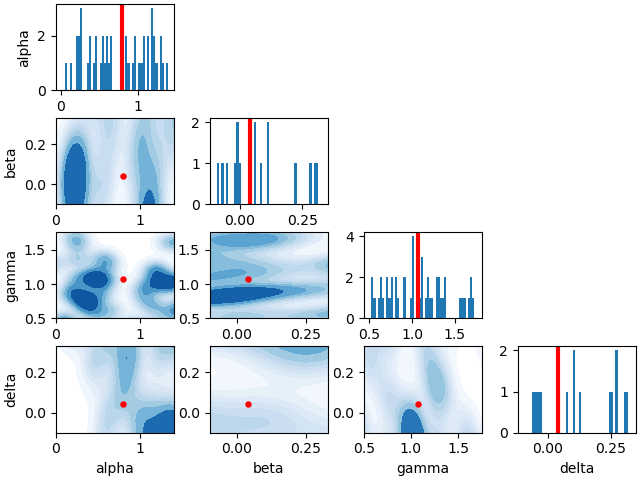
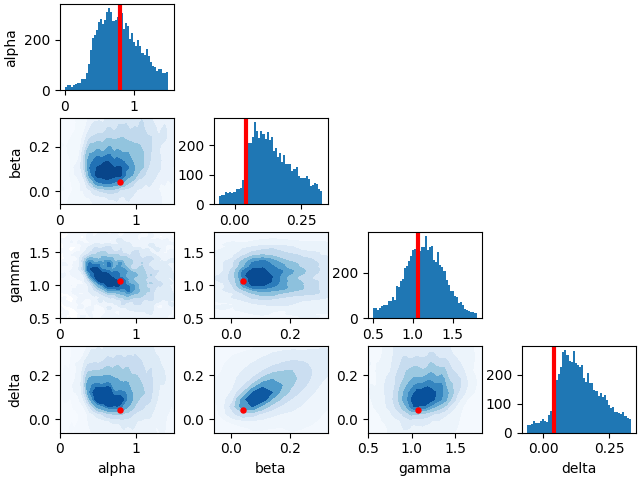
generic commit

diff --git a/scripts/transport/cflow_transport.py b/scripts/transport/cflow_transport.py
@@ -576,7 +576,8 @@ def vl_exp(N=10000, n_iter=10000, Yd=18, normal=True, exp_name='vl_exp'):
     ref_gen = lambda N: sample_normal(N, 4)
     target_gen = lambda N: get_VL_data(N, Yd=Yd, normal=normal)
 
-    mu_mean = np.asarray([-.125,-3,-0.125,-3])
+    X_mean = np.asarray([-.125,-3,-0.125,-3])
+    X_var = np.asarray([0.285055, 0.000902, 0.281787, 0.000903])
 
     idx_dict = {'ref': [[0, 1, 2, 3]],
                 'cond': [list(range(4, 4 + Yd))],
@@ -592,12 +593,14 @@ def vl_exp(N=10000, n_iter=10000, Yd=18, normal=True, exp_name='vl_exp'):
     N_test = N #min(10 * N, 15000)
     slice_val = np.asarray([.8, .041, 1.07, .04])
 
-    X = np.full((N_test, 4), slice_val - mu_mean)
+    X = np.full((N_test, 4), (slice_val - X_mean)/X_var)
     ref_slice_sample = normalize(get_VL_data(N_test, X=X, Yd=Yd, normal=normal))
     ref_sample = ref_gen(N_test)
 
     slice_sample = compositional_gen(trained_models, ref_sample, ref_slice_sample, idx_dict)
-    slice_sample[:,:4] += mu_mean
+    slice_sample[:,:4] += X_mean
+    slice_sample[:, :4] *= X_var
+
 
     params_keys = ['alpha', 'beta', 'gamma', 'delta']
     ranges = {'alpha': [0,1.5], 'beta': [-.06,.33], 'gamma':[.5,1.8], 'delta':[-.06,.33]}

diff --git a/scripts/transport/lokta_voltera.py b/scripts/transport/lokta_voltera.py
@@ -132,8 +132,10 @@ def get_VL_data(N = 5000, Xd = 4, Yd = 18, T = 20, X = [], normal = False):
         X = LV.sample_prior(N)
     Y, _ = LV.sample_data(X)
     if normal:
-        mu_mean = np.asarray([-.125, -3, -0.125, -3])
-        X -= mu_mean
+        X_mean = np.asarray([-.125, -3, -0.125, -3])
+        X_var = np.asarray([0.285055, 0.000902, 0.281787, 0.000903])
+        X -= X_mean
+        X /= X_var
         Y = normalize(Y)
 
     X = torch.tensor(np.real(X)[:, :Xd])
@@ -142,9 +144,10 @@ def get_VL_data(N = 5000, Xd = 4, Yd = 18, T = 20, X = [], normal = False):
 
 
 if __name__ == '__main__':
-    X,Y = get_VL_data(4, 5)
+    LV = DeterministicLotkaVolterra(20)
+    #X,Y = get_VL_data(4, 5)
 
-    for i in range(50):
-        plt.plot(Y[i])
-    plt.savefig('sample_trajectories.png')
+    #for i in range(50):
+        #plt.plot(Y[i])
+    #plt.savefig('sample_trajectories.png')
 
